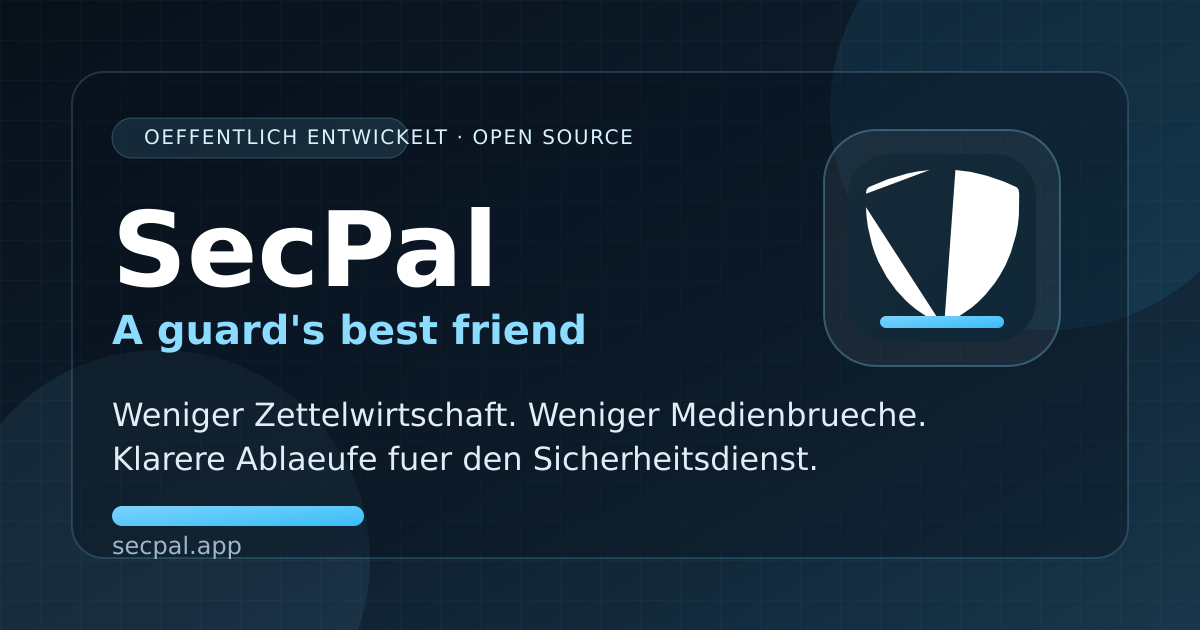
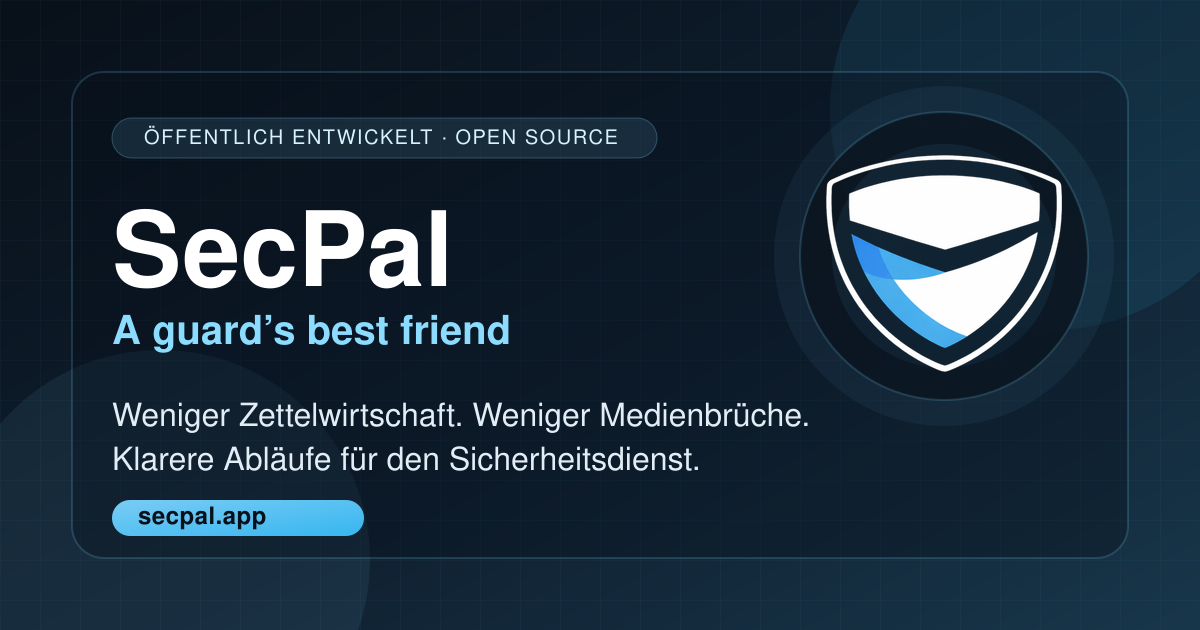
fix(og): refine social preview assets (#29)
* fix(og): refine social preview assets

* fix(og): allowlist http/https protocols in socialImageUrl IIFE

Validate URL protocol after construction to prevent non-HTTP schemes
such as javascript: or data: from being emitted in OG meta tags.
Treat empty/whitespace socialImagePath as unset and fall back to the
locale default. Gracefully handle URL construction failures.

Addresses Copilot review comment on PR #29.

diff --git a/CHANGELOG.md b/CHANGELOG.md
@@ -14,6 +14,13 @@ and this project adheres to [Semantic Versioning](https://semver.org/spec/v2.0.0
 
 ### Fixed
 
+- Social preview domain branding now sits inside the lower-left accent pill instead of floating beneath a thin bar, so the `secpal.app` label reads as an intentional brand tag rather than a visually shifted leftover element
+- The social preview generator now uses finalized German copy with proper umlauts and matching punctuation, so the generated OG card no longer looks like an ASCII-only draft asset
+- The social preview build step now relies on a declared local `sharp` dependency instead of an implicit transitive install, so `npm run build` remains stable when upstream package trees change
+- Social preview badge backgrounds in the top label now use a conservative per-locale text-width estimate including letter spacing and tuned padding, so both the English and German badge copy stay fully inside the tinted pill without the English badge growing unnecessarily long
+- Social preview logo placement is now slightly smaller and lower inside the circular stage, so the shield sits more naturally within the round frame instead of touching the upper visual boundary
+- Default website builds from the live repository checkout now derive canonical and social preview origins from `https://dev.secpal.app`, so the dev host no longer emits production `canonical`, `og:url`, or preview image URLs unless `SECPAL_SITE_URL` explicitly targets production
+- Social preview assets are now regenerated from the canonical `logo-dark-512.png` brand asset for dark preview cards before every build, so the final OG/Twitter cards use the original SecPal logo instead of a manually reconstructed or wrong-contrast variant while still emitting absolute image URLs from the active build domain
 - `astro.config.mjs` now filters Astro's known false-positive `UNUSED_EXTERNAL_IMPORT` warning for `@astrojs/internal-helpers/remote`, and the site now tracks `astro@6.1.1`, so local builds finish without upstream warning noise
 - `package.json` now pins `typescript` to the `5.9.x` support range used by `@typescript-eslint`, and npm overrides now lift vulnerable transitive `brace-expansion`, `picomatch`, and `yaml` packages to patched releases so linting and `npm audit` both run cleanly
 
